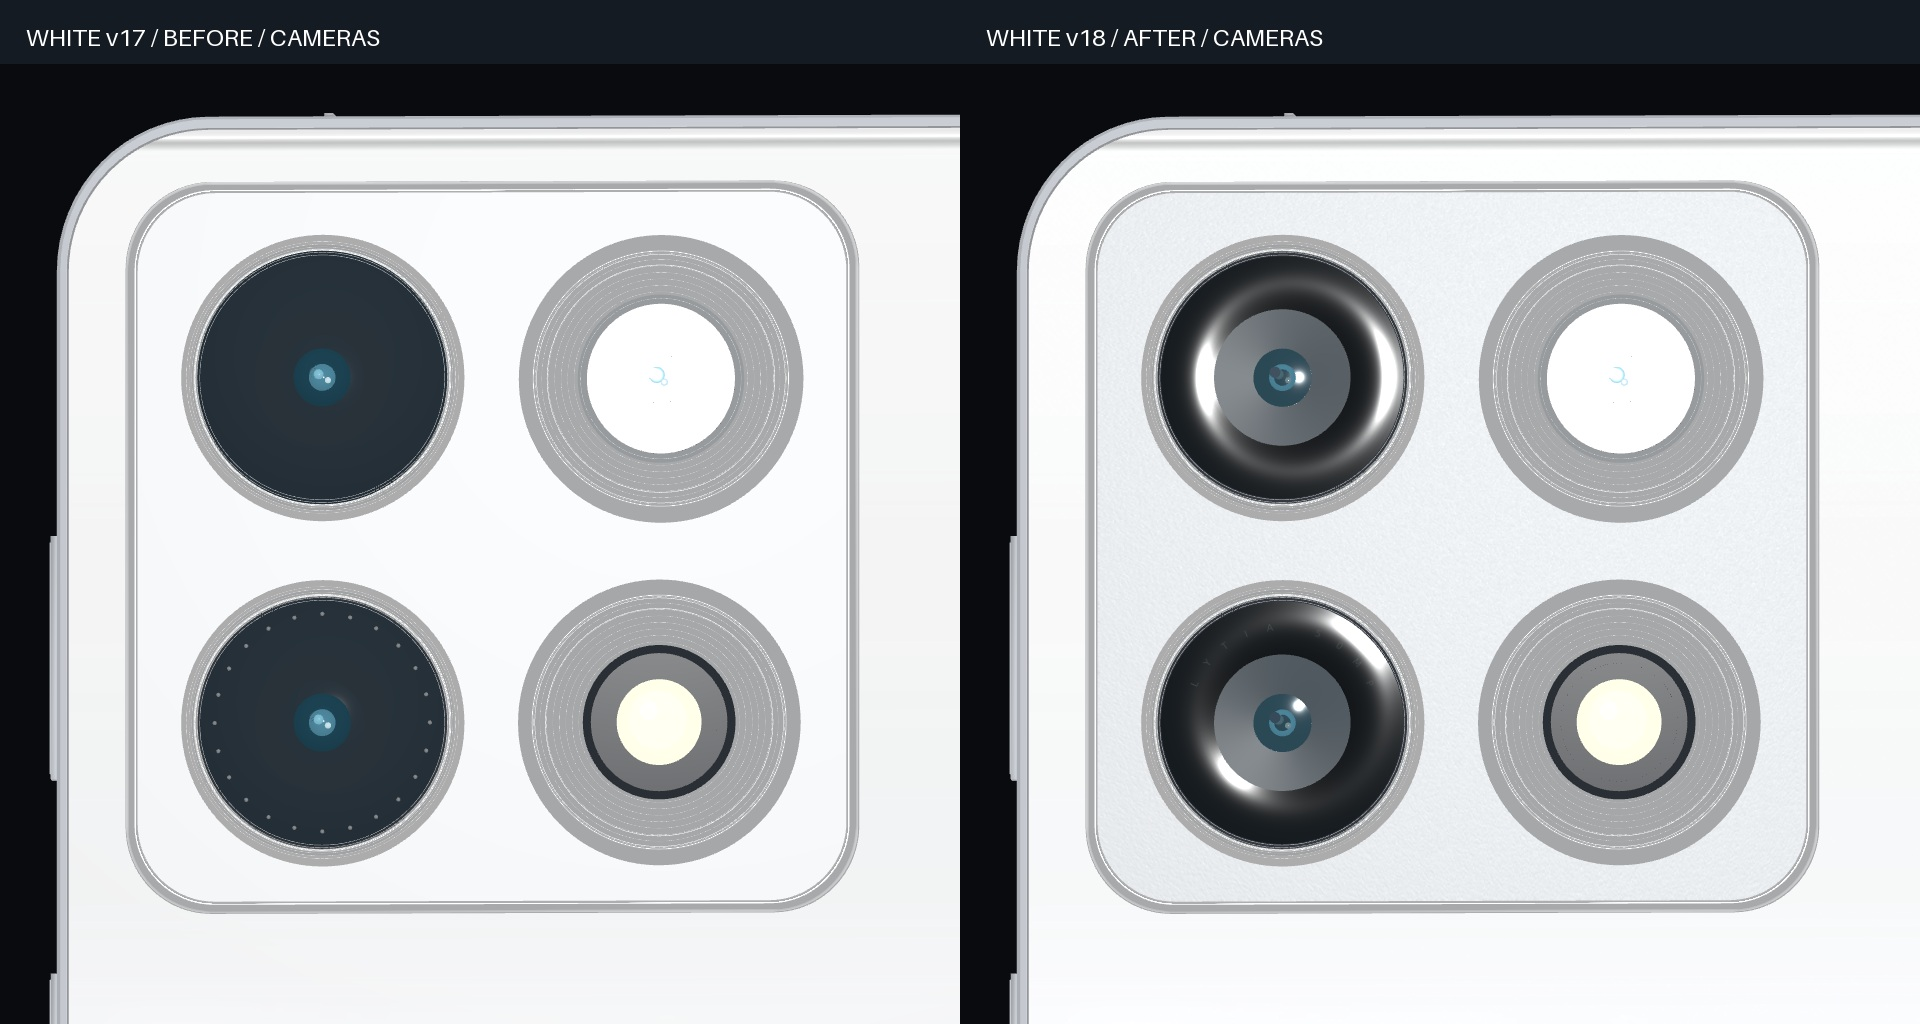
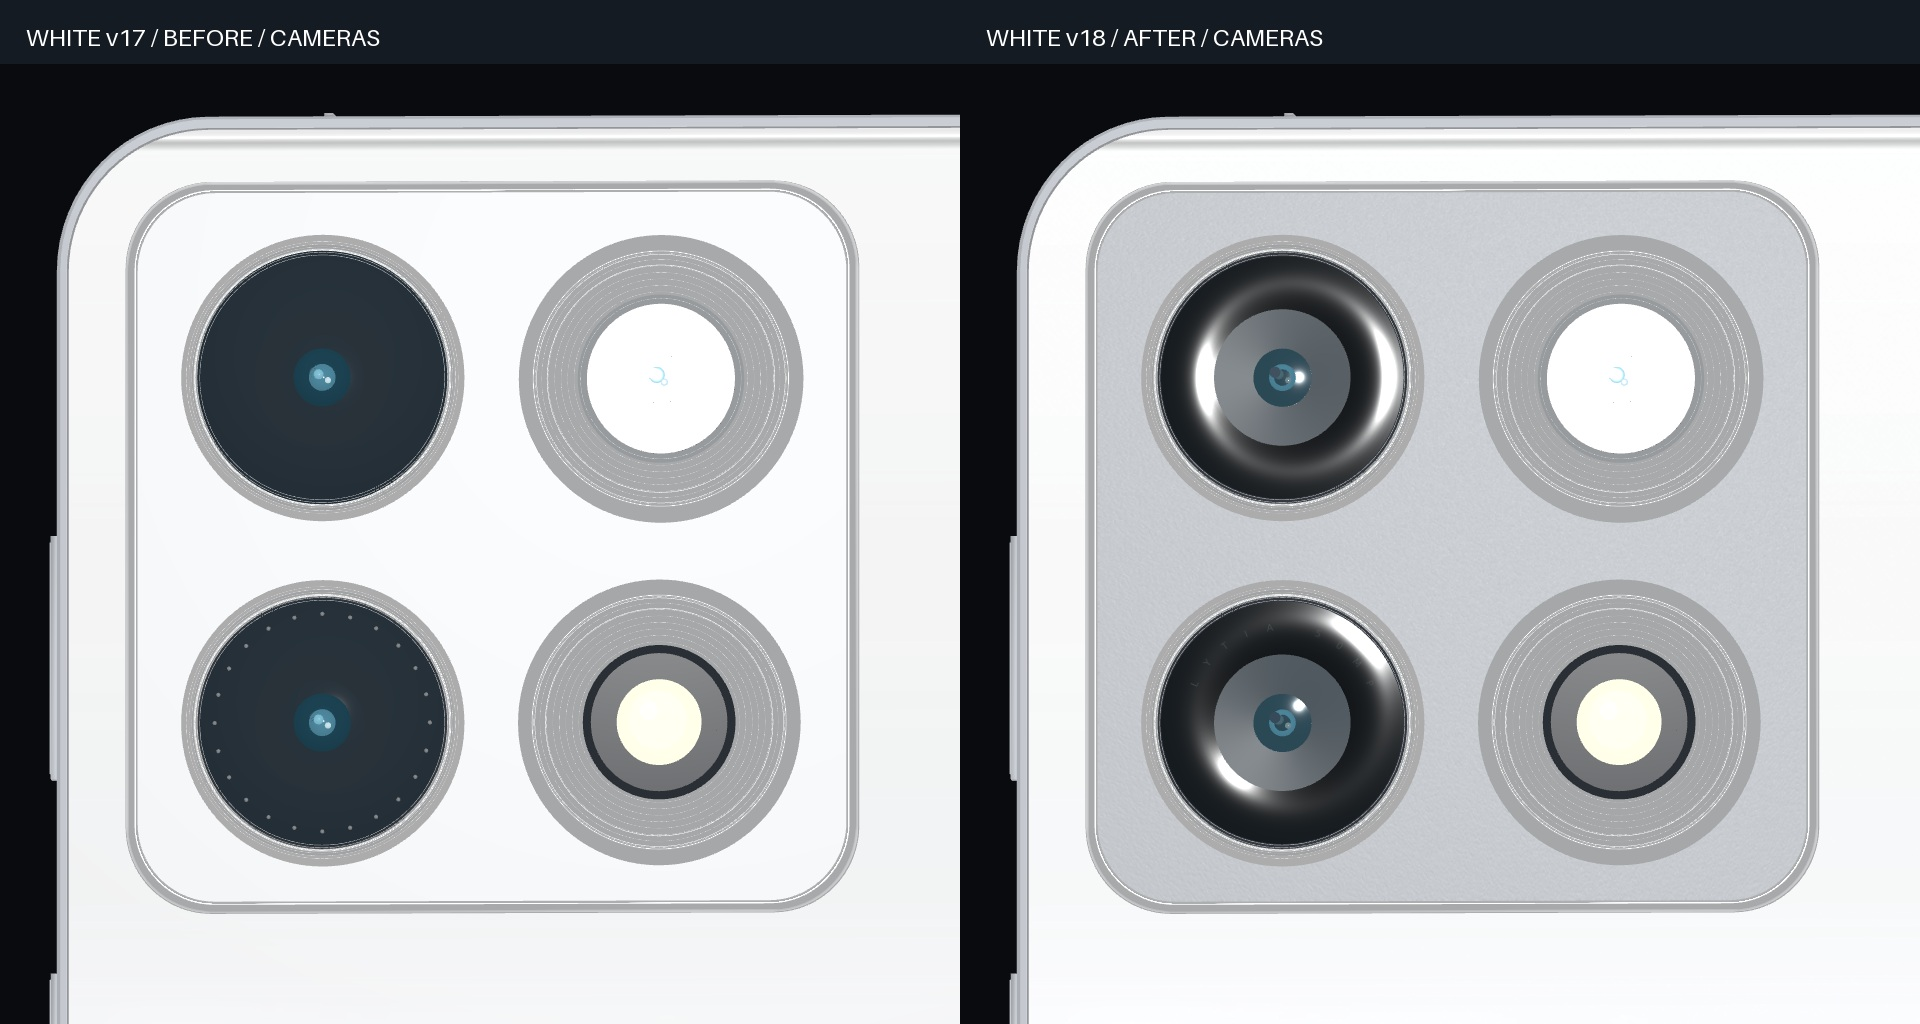
Adapt v18 silver micrograin to unchanged Filament lighting and verify fresh bookmark frames

Changed region(s): [[0.5625, 0.1875, 0.9375, 0.9062]]

diff --git a/app/src/androidTest/java/com/spectra/twin/render/WhiteModelFilamentTest.kt b/app/src/androidTest/java/com/spectra/twin/render/WhiteModelFilamentTest.kt
@@ -88,14 +88,19 @@ class WhiteModelFilamentTest {
                             field(view, "yaw", 0f)
                             field(view, "pitch", -.08f)
                             field(view, "focusY", .67)
-                            field(view, "radius", 1.3f)
+                            field(view, "radius", 2.15f)
                         }
                     }
+                    // A nonblank previous frame is not evidence for a new bookmark.
+                    // Let the native presentation queue advance before validating its shape.
+                    SystemClock.sleep(1500)
                     // CPU-side gltfio load completion precedes the first GPU frame.
                     // Wait for visible GPU output with a deadline; retain failure evidence too.
                     val frameLimit = SystemClock.uptimeMillis() + 30_000
                     var visible = 0
                     var dark = 0
+                    var visibleSpan = 0
+                    var correctShape = false
                     var lastPixels: Bitmap? = null
                     var state = JSONObject()
                     do {
@@ -119,16 +124,29 @@ class WhiteModelFilamentTest {
                             lastPixels = pixels
                             visible = 0
                             dark = 0
+                            var minY = pixels.height
+                            var maxY = -1
                             for (y in 0 until pixels.height step 4) for (x in 0 until pixels.width step 4) {
                                 val p = pixels.getPixel(x, y)
                                 val r = (p shr 16) and 255
                                 val g = (p shr 8) and 255
                                 val b = p and 255
-                                if (r > 65 || g > 65 || b > 65) visible++ else dark++
+                                if (r > 65 || g > 65 || b > 65) {
+                                    visible++
+                                    minY = minOf(minY, y)
+                                    maxY = maxOf(maxY, y)
+                                } else dark++
+                            }
+                            visibleSpan = maxY - minY
+                            correctShape = when (shot) {
+                                "bottom", "top" -> visibleSpan in 10..(pixels.height * .30).toInt()
+                                "rear" -> visibleSpan > pixels.height * .35 && visibleSpan < pixels.height * .85
+                                else -> visibleSpan > pixels.height * .60
                             }
                         }
-                    } while ((visible <= 150 || dark <= 150) && SystemClock.uptimeMillis() < frameLimit)
+                    } while ((visible <= 150 || dark <= 150 || !correctShape) && SystemClock.uptimeMillis() < frameLimit)
                     state.put("visible_samples", visible).put("dark_samples", dark)
+                        .put("visible_span_pixels", visibleSpan).put("correct_bookmark_shape", correctShape)
                     saveJson("white-$version-$shot-state.json", state.toString(2))
                     saveJson("android-load-metrics.json", metrics.toString(2))
                     val pixels = requireNotNull(lastPixels) { "GPU readback unavailable: $state" }
@@ -139,6 +157,7 @@ class WhiteModelFilamentTest {
                     pixels.recycle()
                     assertTrue("$version/$shot blank render: $state", visible > 150)
                     assertTrue("$version/$shot missing background: $state", dark > 150)
+                    assertTrue("$version/$shot stale or incorrect bookmark frame: $state", correctShape)
                 }
             }
         }

diff --git a/scripts/refine-white-v18.py b/scripts/refine-white-v18.py
@@ -135,7 +135,9 @@ def refine(source):
     grain, normal, packed = metal_maps()
     plate = scene.geometry['009_camera_island_flush_face']
     set_material(plate, PBRMaterial(name='White_v18_micrograin_silver_plate',
-        baseColorFactor=[255, 255, 255, 255], baseColorTexture=grain,
+        # SPECTRA intentionally bypasses tone mapping. Keep the silver's diffuse
+        # energy below clipping under its existing key + SH fill so grain survives.
+        baseColorFactor=[170, 173, 176, 255], baseColorTexture=grain,
         normalTexture=normal, metallicRoughnessTexture=packed,
         metallicFactor=.30, roughnessFactor=1., doubleSided=False), planar_uv(plate))
     rear = scene.geometry[REAR].visual.material

diff --git a/docs/WHITE-V18.md b/docs/WHITE-V18.md
@@ -9,6 +9,7 @@ The existing packaging chain is retained: immutable bundled v9 → `build-white-
 - Replace six flat optical discs within the two large lens housings with curved optical annuli, recessed chambers and convex aspheric pupils. Existing housing centres and outer rings are retained. Move six small optical/coating surfaces inward by 0.235 mm to match the new chamber depth.
 - Bake only the verified `LYTIA 50MP` lettering into the upper arc of the lower-left optical ring. Reference `3415.jpg` shows these characters; no uncertain lower-arc wording is invented. The photo's diagonal orientation is resolved to the phone's upright coordinates.
 - Preserve the existing concentric ring geometry; adjust its metallic/roughness response.
+- Limit the camera plateau's diffuse factor to keep its silver micrograin below clipping under SPECTRA's unchanged key/SH lighting with tone mapping bypassed.
 - Add deterministic 512² base/roughness/normal maps to the silver camera plateau and a subtle 512×1024 etched-glass normal/roughness map to the rear. The rear base texture and UVs, including LEGION and Lenovo, remain exact.
 - Match the two lower antenna inserts more closely to the light silver rail. Their vertices, faces and centres at ±5.9 mm from USB-C remain exact.
 - Export normals for every mesh and explicit tangent frames for normal-mapped surfaces. Core glTF 2.0 PBR only: no transmission, custom shaders, network assets or lighting changes.
